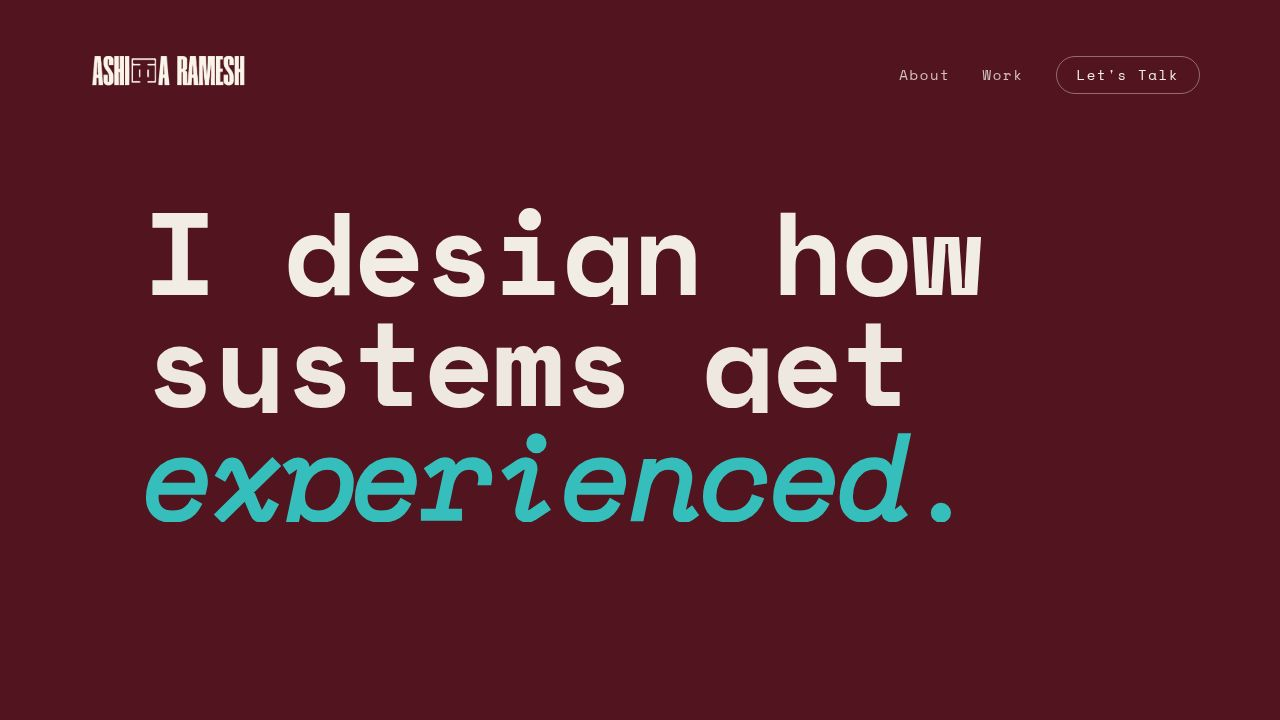
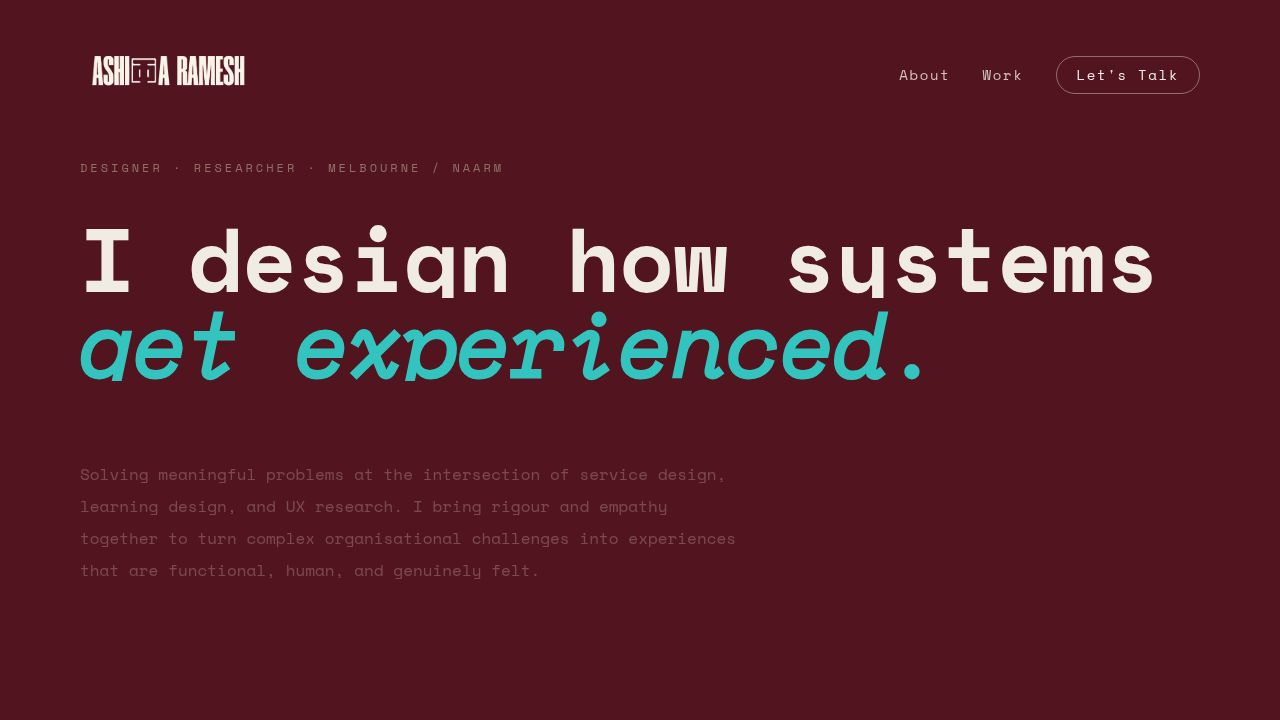
Update headline to all caps with mixed colors for key terms
Modify Home.tsx to render the headline in uppercase, with distinct colors for "get" and "experienced."

Replit-Commit-Author: Agent
Replit-Commit-Session-Id: 4f757c5c-863d-44f8-9539-7f05473edf01
Replit-Commit-Checkpoint-Type: full_checkpoint
Replit-Commit-Event-Id: 7d571e59-0050-426a-a8fb-6d52b50d130d
Replit-Commit-Screenshot-Url: https://storage.googleapis.com/screenshot-production-us-central1/c0281d35-ae74-445d-a5c6-c33baecdef9d/4f757c5c-863d-44f8-9539-7f05473edf01/XVekjHP
Replit-Helium-Checkpoint-Created: true

diff --git a/artifacts/portfolio/src/pages/Home.tsx b/artifacts/portfolio/src/pages/Home.tsx
@@ -60,29 +60,46 @@ export default function Home() {
             </motion.p>
 
             <div className="flex flex-col">
-              {[
-                { text: "I design how systems",  isAccent: false },
-                { text: "get experienced.",       isAccent: true  },
-              ].map(({ text, isAccent }, i) => (
-                <div key={text} className="overflow-hidden leading-none">
-                  <motion.h1
-                    custom={i}
-                    initial="hidden"
-                    animate="visible"
-                    variants={lineVariants}
-                    className="font-bold"
-                    style={{
-                      fontSize: "clamp(2.5rem, 7vw, 8rem)",
-                      lineHeight: 0.92,
-                      letterSpacing: "-0.01em",
-                      color: isAccent ? "hsl(178 60% 50%)" : "hsl(40 33% 93%)",
-                      fontStyle: isAccent ? "italic" : "normal",
-                    }}
-                  >
-                    {text}
-                  </motion.h1>
-                </div>
-              ))}
+              {/* Line 1 */}
+              <div className="overflow-hidden leading-none">
+                <motion.h1
+                  custom={0}
+                  initial="hidden"
+                  animate="visible"
+                  variants={lineVariants}
+                  className="font-bold uppercase"
+                  style={{
+                    fontSize: "clamp(2rem, 6.2vw, 7rem)",
+                    lineHeight: 0.92,
+                    letterSpacing: "0.02em",
+                    color: "hsl(40 33% 93%)",
+                  }}
+                >
+                  I design how systems
+                </motion.h1>
+              </div>
+
+              {/* Line 2 — "GET" cream, "EXPERIENCED." teal */}
+              <div className="overflow-hidden leading-none">
+                <motion.h1
+                  custom={1}
+                  initial="hidden"
+                  animate="visible"
+                  variants={lineVariants}
+                  className="font-bold uppercase"
+                  style={{
+                    fontSize: "clamp(2rem, 6.2vw, 7rem)",
+                    lineHeight: 0.92,
+                    letterSpacing: "0.02em",
+                    color: "hsl(40 33% 93%)",
+                  }}
+                >
+                  get{" "}
+                  <span style={{ color: "hsl(178 60% 50%)" }}>
+                    experienced.
+                  </span>
+                </motion.h1>
+              </div>
             </div>
           </div>
 
